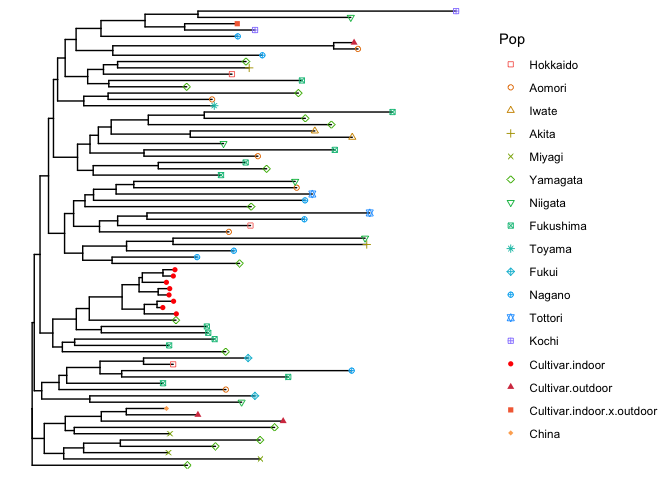
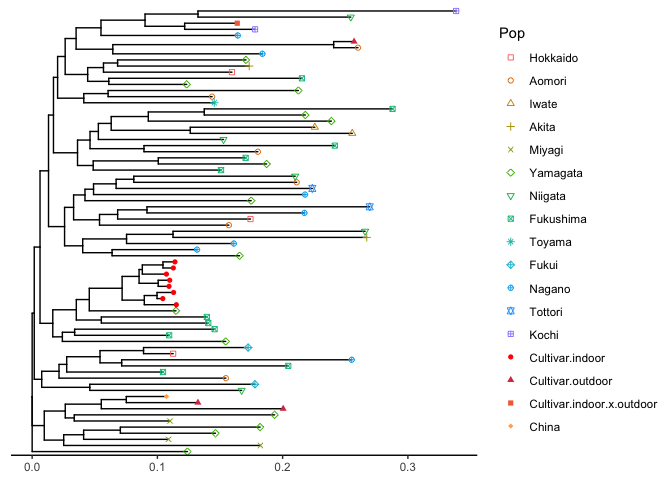
update

Changed region(s): [[0.0312, 0.0, 0.7188, 1.0], [0.75, 0.0625, 1.0, 0.9375], [0.0312, 0.5, 0.0625, 0.5312]]

diff --git a/PCA.NJ.Phmi.md b/PCA.NJ.Phmi.md
@@ -176,6 +176,7 @@ Phmi.nj.tree.ggtree.boot <- read.tree("Phmi.bruvo.nj.boot.tree.nwk")
 p.tree <- ggtree(Phmi.nj.tree.ggtree.boot) %<+% info + geom_tippoint(aes(color=Pop, shape=Pop))
 p.tree <- p.tree + scale_shape_manual(values=c(0,1,2,3,4,5,6,7,8,9,10,11,12,16,17,15,18))
 p.tree <- p.tree + scale_color_manual(values=MyCol.ggplot)
+p.tree <- p.tree + theme_tree2()
 
 p.tree
 ```
